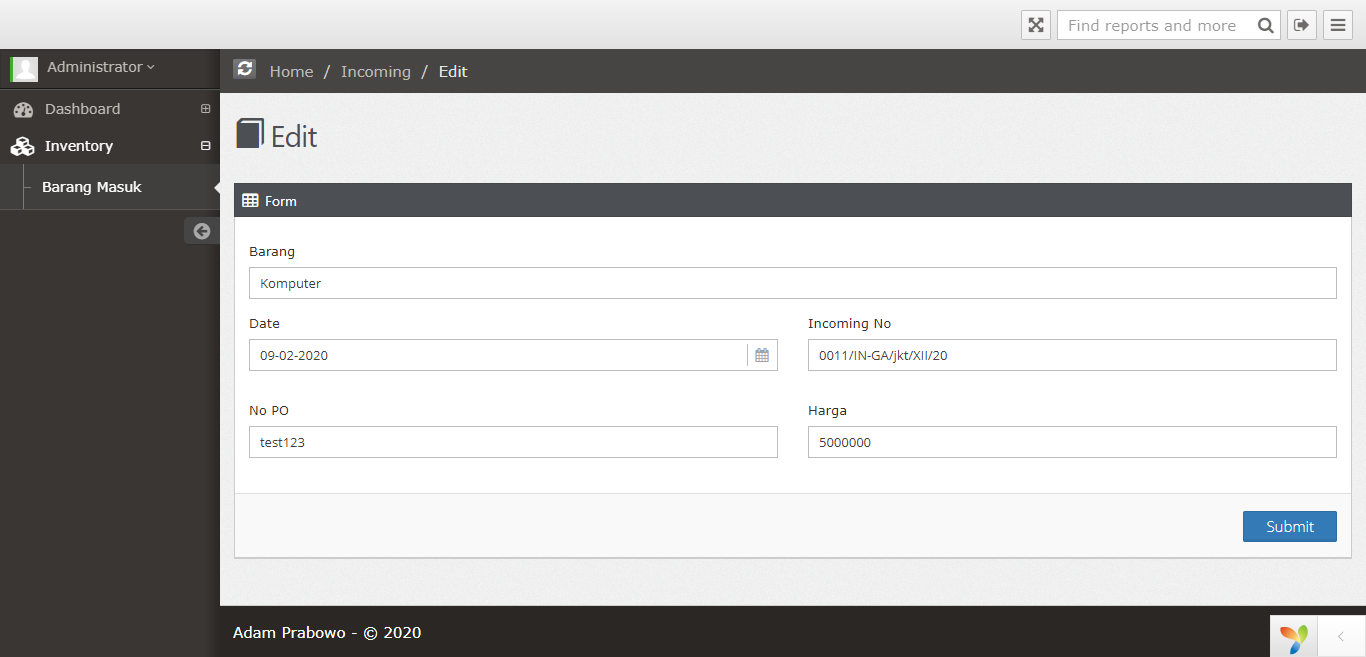
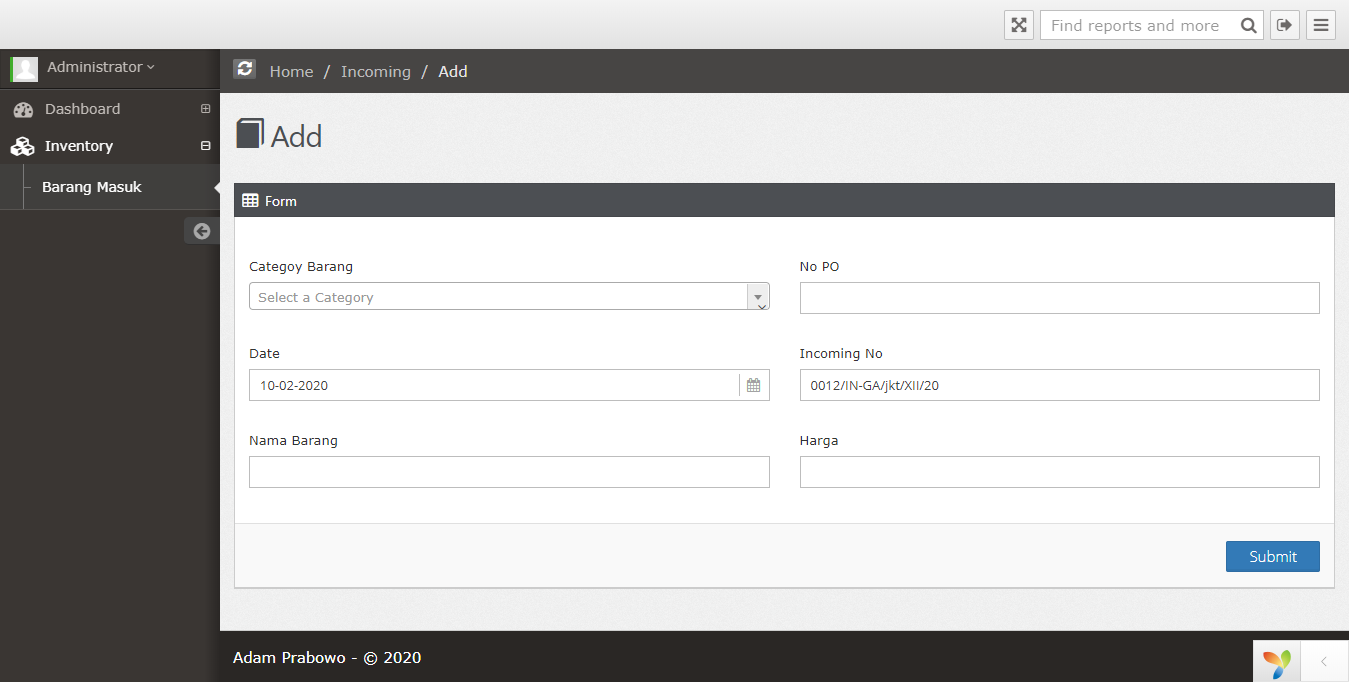
Menambahkan form dropDownList

diff --git a/modules/inventory/views/incoming/form.php b/modules/inventory/views/incoming/form.php
@@ -36,10 +36,21 @@ $url=Url::toRoute(['/inventory/incoming/add']);
         <fieldset>
 
                <section >
-                    <?= $form->field($model,'item') ?>
+                    <!-- <?= $form->field($model,'po_number') ?> -->
+                    
                 </section> 
 
             <div class="row">
+
+                <section class="col col-6">
+                    <?= $form->field($model, 'category_id')->dropDownList($model->category_id==null?[]:[$model->category_id=>$model->category->description],[
+                        'id'=>'selectCat',
+                        'prompt'=>'Select Category'
+                ])?>
+                </section>
+                <section class="col col-6">
+                    <?= $form->field($model,'po_number') ?>
+                </section>
 
                 <section class="col col-6">
                     <?= $form->field($model,'date',['template' => '{label}<label class="input">
@@ -49,7 +60,7 @@ $url=Url::toRoute(['/inventory/incoming/add']);
                     <?= $form->field($model,'incoming_no') ?>
                 </section>
                 <section class="col col-6">
-                    <?= $form->field($model,'po_number') ?>
+                    <?= $form->field($model,'item') ?>
                 </section>
                 <section class="col col-6">
                     <?= $form->field($model,'price') ?>
@@ -95,3 +106,27 @@ $url=Url::toRoute(['/inventory/incoming/add']);
         </div>
     </div>
 <?php
+
+$urlcat=Url::toRoute(['/inventory/incoming/list-category']);
+$jsCode = <<< JS
+
+    $(function () {
+
+        $('#selectCat').select2({
+            placeholder: "Select a Category",
+            width: '100%',
+            ajax:{
+                url:'$urlcat',
+                data:function(params){
+                     var query ={
+                        q:params.term,
+                        type:''
+                    }
+                    return query;
+                }
+            }
+        }); 
+      
+    })
+JS;
+$this->registerJs($jsCode, 4, 'aaa');

diff --git a/modelsDB/IncomingStock.php b/modelsDB/IncomingStock.php
@@ -31,7 +31,7 @@ class IncomingStock extends \yii\db\ActiveRecord
     {
         return [
             [['incoming_no', 'price', 'item'], 'required'],
-            [['po_id', 'price'], 'integer'],
+            [['po_id', 'category_id', 'price'], 'integer'],
             [['date'], 'safe'],
             [['incoming_no', 'po_number'], 'string', 'max' => 45],
             [['item'], 'string', 'max' => 100],
@@ -45,12 +45,29 @@ class IncomingStock extends \yii\db\ActiveRecord
     {
         return [
             'id' => 'ID',
+            'category_id' => 'Categoy Barang',
             'incoming_no' => 'Incoming No',
             'po_id' => 'Po ID',
             'date' => 'Date',
-            'item' => 'Barang',
+            'item' => 'Nama Barang',
             'price' => 'Harga',
             'po_number' => 'No PO'
         ];
+    }
+
+    // /**
+    //  * @return \yii\db\ActiveQuery
+    //  */
+    // public function getCategory()
+    // {
+    //     return $this->hasOne(CategoriesStock::className(), ['id' => 'po_id']);
+    // }
+
+     /**
+     * @return \yii\db\ActiveQuery
+     */
+    public function getCategory()
+    {
+        return $this->hasOne(CategoriesStock::className(), ['id' => 'category_id']);
     }
 }

diff --git a/modules/inventory/controllers/IncomingController.php b/modules/inventory/controllers/IncomingController.php
@@ -61,6 +61,10 @@ class IncomingController extends Controller {
     public function actionView($id)
     {
        $model=$this->findModel($id);
+       // echo '<pre>';
+       // print_r($model);
+       // echo '</pre>';
+       // die();
        return $this->render('view',['model'=>$model]);
     }
     protected function findModel($id)
@@ -71,6 +75,29 @@ class IncomingController extends Controller {
         else {
             throw new NotFoundHttpException('The requested page does not exist.');
         }
+    }
+
+    public function actionListCategory()
+    {
+        \Yii::$app->response->format = \yii\web\Response::FORMAT_JSON;
+
+        $q = isset($_GET['q']) ? $_GET['q'] : '';
+        if (isset($_GET['type']))  {
+            $query = \app\modelsDB\CategoriesStock::find();
+            $query->where(['like','id',$_GET['type']]);
+             $query->andWhere("(description like '%$q%')");
+             foreach ($query->all() as $record) {
+                $out[] = [
+                    'id' => $record->id,
+                    'text' => $record->description,
+                ];
+            }
+
+        } 
+
+        return [
+            'results' => $out,
+        ];
     }
 
 

diff --git a/modules/inventory/views/incoming/view.php b/modules/inventory/views/incoming/view.php
@@ -131,8 +131,13 @@ $this->params['breadcrumbs'][] = $this->title;
                                     <div>
                                         <div class="font-md">
                                             <strong>Item :</strong>
-                                            <span class="pull-right"> <i
-                                                        class="fa fa-calendar"></i> <?= $model->item?> </span>
+                                            <span class="pull-right"> <?= $model->item?> </span>
+                                        </div>
+                                    </div>
+                                    <div>
+                                        <div class="font-md">
+                                            <strong>Categori :</strong>
+                                            <span class="pull-right"> <?= $model->CategoryName?> </span>
                                         </div>
                                     </div>
                                     <div>

diff --git a/modelsDB/CategoriesStock.php b/modelsDB/CategoriesStock.php
@@ -1,0 +1,44 @@
+<?php
+
+namespace app\modelsDB;
+
+use Yii;
+
+/**
+ * This is the model class for table "categories_stock".
+ *
+ * @property int $id
+ * @property string $description
+ */
+class CategoriesStock extends \yii\db\ActiveRecord
+{
+    /**
+     * {@inheritdoc}
+     */
+    public static function tableName()
+    {
+        return 'categories_stock';
+    }
+
+    /**
+     * {@inheritdoc}
+     */
+    public function rules()
+    {
+        return [
+            [['description'], 'required'],
+            [['description'], 'string', 'max' => 50],
+        ];
+    }
+
+    /**
+     * {@inheritdoc}
+     */
+    public function attributeLabels()
+    {
+        return [
+            'id' => 'ID',
+            'description' => 'Description',
+        ];
+    }
+}

diff --git a/modules/inventory/models/Incoming.php b/modules/inventory/models/Incoming.php
@@ -35,6 +35,16 @@ class Incoming extends IncomingStock
         return $out;
     }
 
+    public function getCategoryName()
+    {
+        if($this->category!==null){
+            $cat=$this->category->description;
+        }else{
+            $cat='';
+        }
+        return $cat;
+    }
+
     /**
      * @return \yii\db\ActiveQuery
      */
